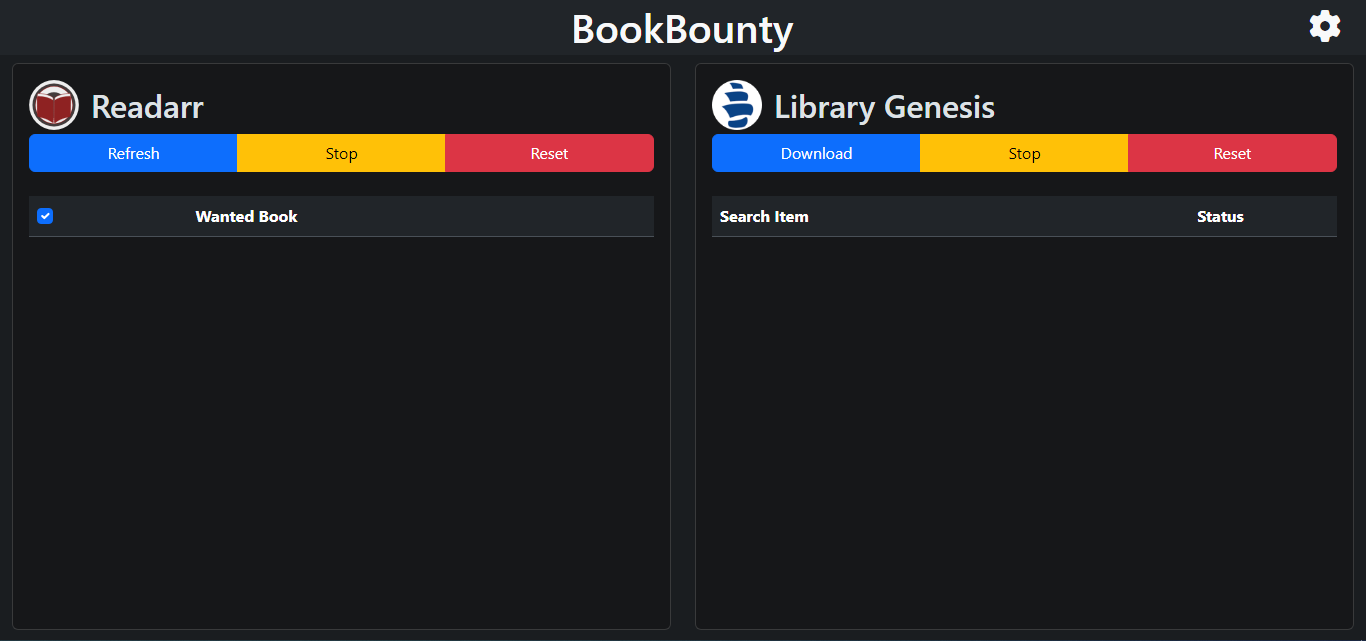
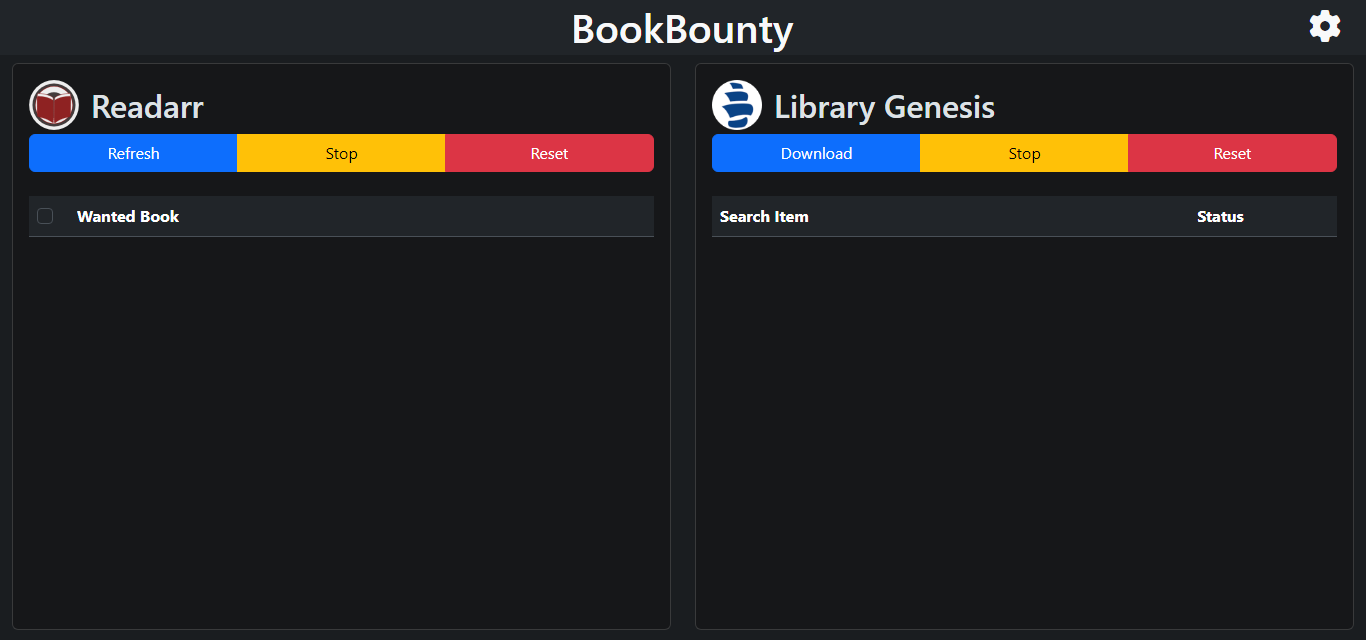
Fix Text Alignment

diff --git a/src/templates/base.html b/src/templates/base.html
@@ -77,7 +77,7 @@
                           <input class="form-check-input" type="checkbox" id="select-all-checkbox">
                         </div>
                       </th>
-                      <th>Wanted Book</th>
+                      <th class="w-100 text-start">Wanted Book List</th>
                     </tr>
                   </thead>
                   <tbody>
